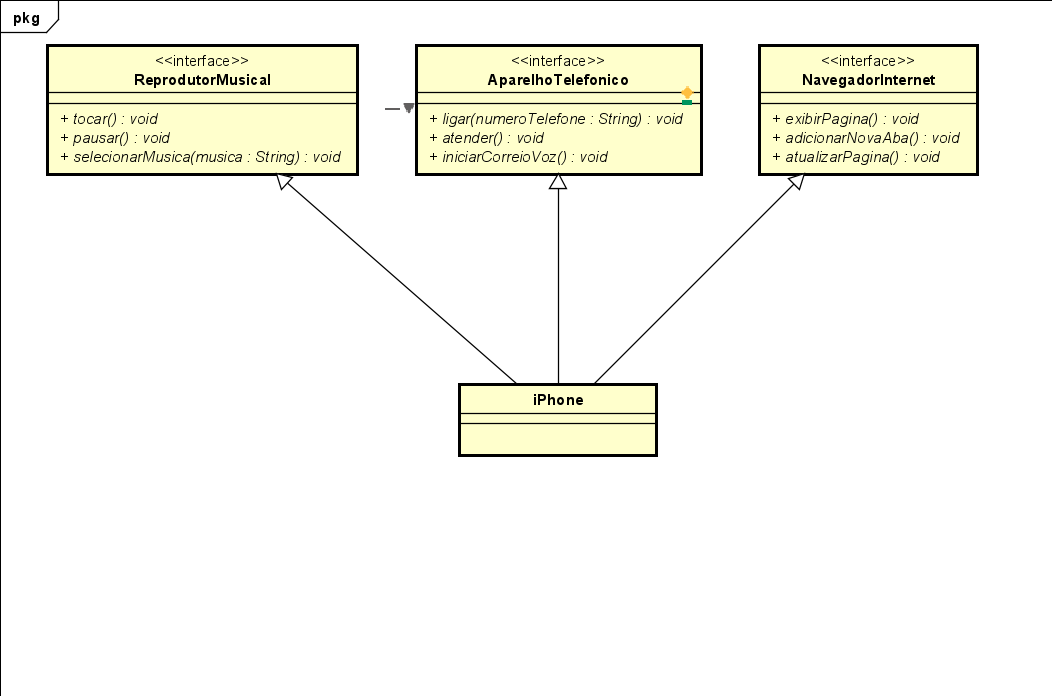
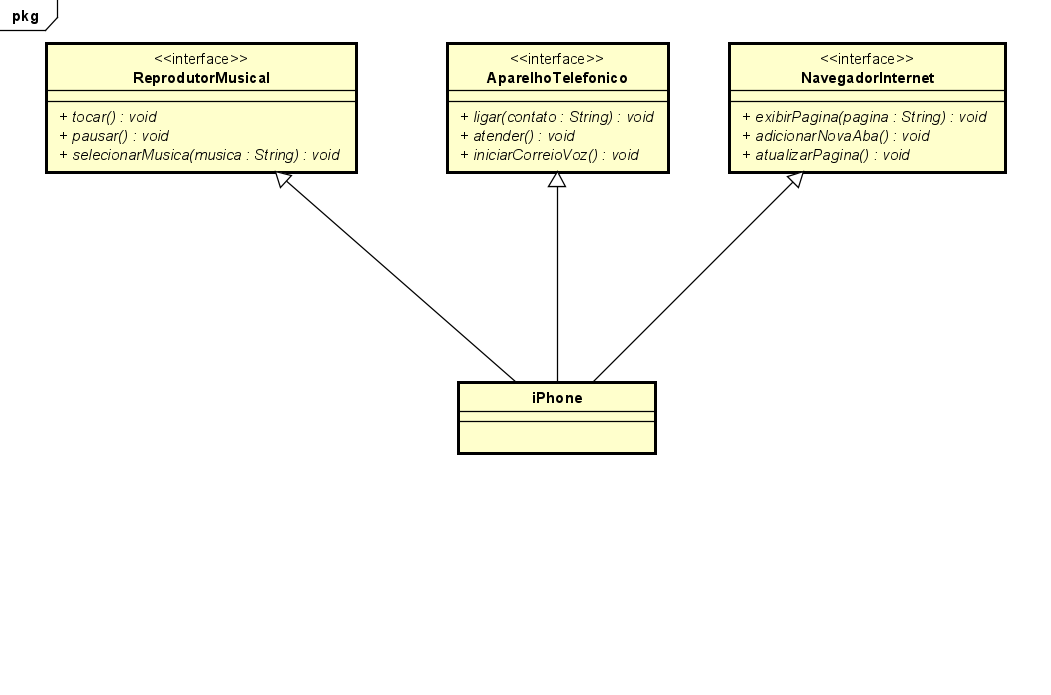
Criação de interfaces e herança com iPhone, rodando todo código na Main

diff --git a/src/main/java/Main.java b/src/main/java/Main.java
@@ -1,0 +1,26 @@
+package main.java;
+
+import main.java.model.iPhone;
+
+public class Main {
+
+    public static void main(String[] args) {
+        iPhone iPhone = new iPhone();
+
+        iPhone.tocar();
+        iPhone.pausar();
+        iPhone.selecionarMusica("The Real Slim Shady - Eminen");
+
+        System.out.println();
+
+        iPhone.ligar("Eliane");
+        iPhone.atender();
+        iPhone.iniciarCorreioVoz();
+
+        System.out.println();
+
+        iPhone.exibirPagina("Spotify");
+        iPhone.adicionarNovaAba();
+        iPhone.atualizarPagina();
+    }
+}

diff --git a/src/main/java/model/NavegadorInternet.java b/src/main/java/model/NavegadorInternet.java
@@ -1,0 +1,16 @@
+package main.java.model;
+
+public interface NavegadorInternet {
+
+    default void exibirPagina(String pagina) {
+        System.out.println("EXIBINDO A PÁGINA " + pagina.toUpperCase());
+    }
+
+    default void adicionarNovaAba() {
+        System.out.println("ADICIONANDO NOVA ABA");
+    }
+
+    default void atualizarPagina() {
+        System.out.println("ATUALIZANDO PÁGINA");
+    }
+}

diff --git a/src/main/java/model/ReprodutorMusical.java b/src/main/java/model/ReprodutorMusical.java
@@ -1,0 +1,17 @@
+package main.java.model;
+
+public interface ReprodutorMusical {
+
+    default void tocar() {
+        System.out.println("TOCANDO A MÚSICA");
+    }
+
+    default void pausar() {
+        System.out.println("MÚSICA PAUSADA");
+    }
+
+    default void selecionarMusica(String musica) {
+        System.out.println("SELECIONANDO A MÚSICA: " + musica.toUpperCase());
+        tocar();
+    }
+}

diff --git a/src/main/java/model/AparelhoTelefonico.java b/src/main/java/model/AparelhoTelefonico.java
@@ -1,0 +1,16 @@
+package main.java.model;
+
+public interface AparelhoTelefonico {
+
+    default void ligar(String contato) {
+        System.out.println("LIGANDO PARA " + contato.toUpperCase());
+    }
+
+    default void atender() {
+        System.out.println("ATENDENDO TELEFONE");
+    }
+
+    default void iniciarCorreioVoz() {
+        System.out.println("INICIANDO CORREIO DE VOZ");
+    }
+}

diff --git a/src/main/java/model/iPhone.java b/src/main/java/model/iPhone.java
@@ -1,0 +1,4 @@
+package main.java.model;
+
+public class iPhone implements ReprodutorMusical, AparelhoTelefonico, NavegadorInternet {
+}
